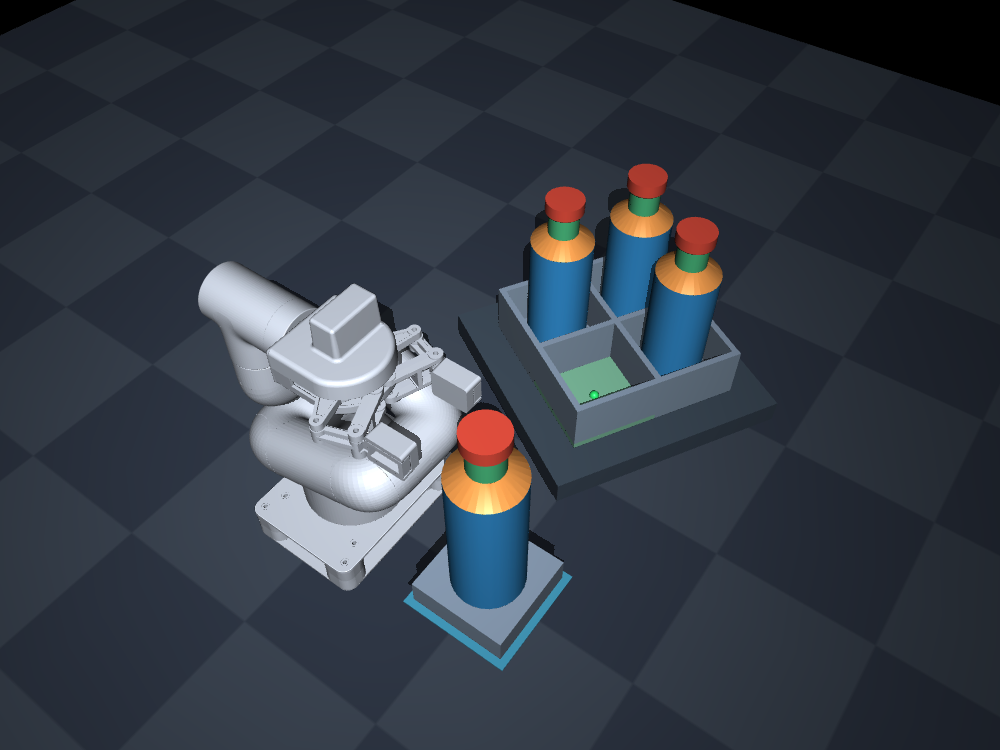
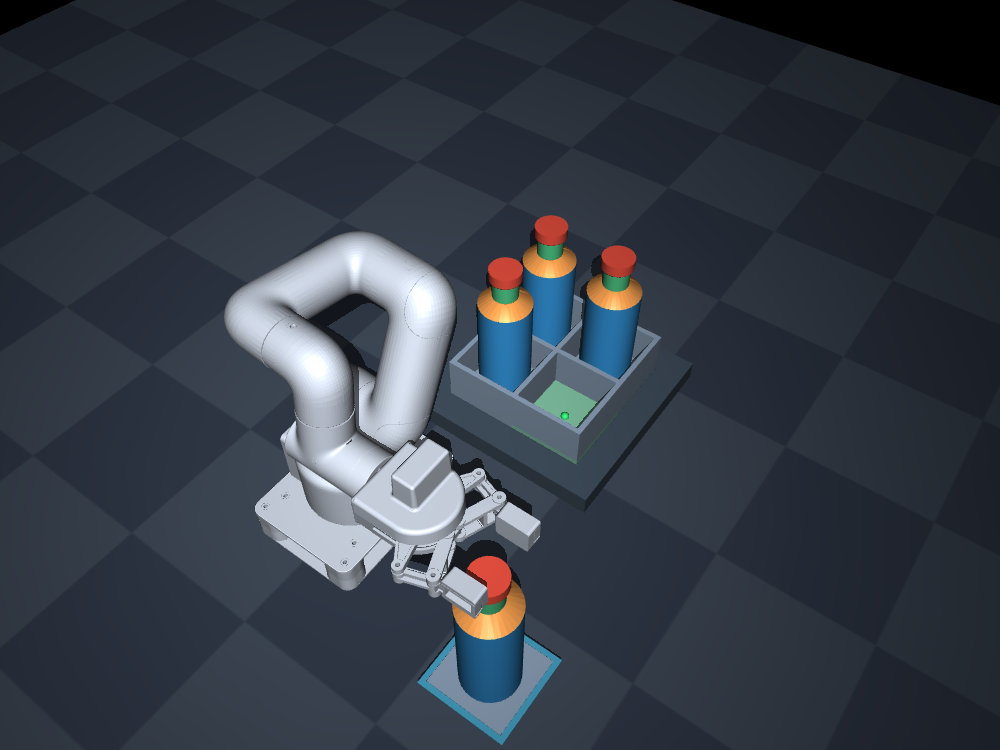
fix: ground and align v0 pickup and conveyor fixtures

Changed region(s): [[0.186, 0.2147, 0.744, 1.0], [0.589, 0.644, 0.62, 0.6747]]

diff --git a/scripts/check_v0_layout.py b/scripts/check_v0_layout.py
@@ -1,25 +1,18 @@
-"""Sample geometric clearance for the day-four v0 layout before authoring its MJCF."""
+"""Sample geometric clearance along the day-four v0 scene path."""
 
-from copy import deepcopy
-from math import cos, pi, sin
+from math import atan2, cos, pi, sin
 from pathlib import Path
-from tempfile import TemporaryDirectory
-from xml.etree import ElementTree as ET
 
 import mujoco
 import numpy as np
 
-from check_mycobot_model import prepare_urdf
-from check_neck_grasp import BOTTLE, CLOSED, OPEN, START, Trial, configure_model, vector
+from check_neck_grasp import BOTTLE, CLOSED, DRIVE, OPEN, START, Trial, vector
+from check_v0_scene import SCENE, SUPPORTS
 
 HAND_OFFSET = np.array([-0.00062, 0.054, -0.1385])  # hand origin to bottle bottom
 PICKUP_YAW = -pi / 2
-TURN = pi / 3
-BOX_YAW = TURN - pi
-CELL_OFFSET = 0.035
 LIFT_HEIGHT = 0.060
-BOX_DROP = 0.045
-RETRACT = 0.045
+APPROACH_HEIGHT = 0.045
 
 
 def yaw_matrix(angle: float) -> np.ndarray:
@@ -27,48 +20,26 @@ def yaw_matrix(angle: float) -> np.ndarray:
     return np.array([[c, -s, 0], [s, c, 0], [0, 0, 1]])
 
 
-def add_placement(xml: Path, box_position: np.ndarray) -> None:
-    tree = ET.parse(xml)
-    world = tree.find("worldbody")
-    if world is None:
-        raise RuntimeError("Configured robot scene has no worldbody")
-    source = world.find(f"body[@name='{BOTTLE}']")
-    if source is None:
-        raise RuntimeError("Configured robot scene has no target bottle")
-    box = ET.SubElement(
-        world, "body", name="packing_box", pos=vector(box_position),
-        quat=vector((cos(BOX_YAW / 2), 0, 0, sin(BOX_YAW / 2))),
-    )
-
-    def block(name, half_size, center) -> None:
-        ET.SubElement(
-            box, "geom", name=name, type="box", pos=vector(center),
-            size=vector(half_size), contype="4", conaffinity="3",
-        )
-
-    block("conveyor_belt", (0.100, 0.100, 0.010), (0, 0, -0.010))
-    block("target_cell_floor", (0.0725, 0.0725, 0.0025), (0, 0, 0.0025))
-    for i, coordinate in enumerate((-0.070, 0, 0.070)):
-        block(f"box_wall_x{i}", (0.0025, 0.0725, 0.020), (coordinate, 0, 0.025))
-        block(f"box_wall_y{i}", (0.0725, 0.0025, 0.020), (0, coordinate, 0.025))
-    for i, (x, y) in enumerate(
-        ((-CELL_OFFSET, -CELL_OFFSET), (-CELL_OFFSET, CELL_OFFSET), (CELL_OFFSET, -CELL_OFFSET)),
-        start=1,
-    ):
-        name = f"bottle_placed_{i}"
-        placed = ET.SubElement(box, "body", name=name, pos=vector((x, y, 0.005)))
-        for original in source.findall("geom"):
-            geom = deepcopy(original)
-            geom.set("name", f"{name}_{original.attrib['name']}")
-            geom.set("contype", "4")
-            geom.set("conaffinity", "3")
-            placed.append(geom)
-    tree.write(xml, encoding="utf-8")
-
-
-def check_layout(xml: Path, arm, coupled, pickup, placement) -> None:
+def check_layout(xml: Path) -> None:
     model = mujoco.MjModel.from_xml_path(str(xml))
     data = mujoco.MjData(model)
+    mujoco.mj_resetDataKeyframe(model, data, model.key("standby").id)
+    mujoco.mj_forward(model, data)
+    pickup = data.body(BOTTLE).xpos.copy()
+    placement = data.site("target_cell_center").xpos.copy()
+    cross = pickup[0] * placement[1] - pickup[1] * placement[0]
+    turn = atan2(cross, np.dot(pickup[:2], placement[:2]))
+
+    drive = model.joint(DRIVE).id
+    arm = [model.joint(joint).name for joint in model.actuator_trnid[:, 0] if joint != drive]
+    coupled = {DRIVE: (1.0, 0.0)}
+    for i in range(model.neq):
+        if model.eq_type[i] == mujoco.mjtEq.mjEQ_JOINT and model.eq_obj2id[i] == drive:
+            offset, multiplier = model.eq_data[i, :2]
+            coupled[model.joint(model.eq_obj1id[i]).name] = (multiplier, offset)
+    if len(arm) != len(START) or len(coupled) != 6:
+        raise RuntimeError("Unexpected arm or gripper drive configuration")
+    resting = {frozenset(pair) for pair in SUPPORTS.values()}
     hand = model.body("gripper_base").id
     bottle_id = model.body(BOTTLE).id
     bottle_qpos = model.joint("bottle_free").qposadr[0]
@@ -80,10 +51,10 @@ def check_layout(xml: Path, arm, coupled, pickup, placement) -> None:
     jr = np.zeros_like(jp)
     damping = 0.002 * np.eye(len(arm))
     q = np.array(START)
-    standby = pickup - np.array([RETRACT, 0, 0])
+    standby = pickup + np.array([0, 0, APPROACH_HEIGHT])
     raised = pickup + np.array([0, 0, LIFT_HEIGHT])
-    place_yaw = PICKUP_YAW + TURN
-    raised_place = yaw_matrix(TURN) @ raised
+    place_yaw = PICKUP_YAW + turn
+    raised_place = yaw_matrix(turn) @ raised
 
     def solve(bottom: np.ndarray, yaw: float) -> None:
         nonlocal q
@@ -121,6 +92,8 @@ def check_layout(xml: Path, arm, coupled, pickup, placement) -> None:
             if model.geom_bodyid[b] == bottle_id:
                 a, b = b, a
             part, other = model.geom(a).name, model.geom(b).name
+            if frozenset((part, other)) in resting:
+                continue
             if model.geom_bodyid[a] == bottle_id:
                 if part == "bottle_body" and other in {"support", "target_cell_floor"}:
                     continue
@@ -158,10 +131,10 @@ def check_layout(xml: Path, arm, coupled, pickup, placement) -> None:
     print("PASS close: 66 poses")
     linear("lift", pickup, raised, PICKUP_YAW, CLOSED, True, None)
 
-    for theta in np.linspace(0, TURN, 241):
+    for theta in np.linspace(0, turn, 321):
         point = yaw_matrix(theta) @ raised
         verify("transfer", point, PICKUP_YAW + theta, CLOSED, point)
-    print("PASS transfer: 241 poses")
+    print("PASS transfer: 321 poses")
     linear("placement descent", raised_place, placement, place_yaw, CLOSED, True, None)
     print_pose("Placement")
     for grip in np.linspace(CLOSED, OPEN, 66):
@@ -170,21 +143,5 @@ def check_layout(xml: Path, arm, coupled, pickup, placement) -> None:
     linear("placement retreat", placement, raised_place, place_yaw, OPEN, False, placement)
 
 
-def main() -> None:
-    with TemporaryDirectory(prefix="mycobot-v0-layout-") as directory:
-        urdf, source = prepare_urdf(Path(directory))
-        initial, arm, coupled = configure_model(urdf, source)
-        pose = mujoco.MjData(initial)
-        mujoco.mj_forward(initial, pose)
-        pickup = pose.body(BOTTLE).xpos.copy()
-        placement = yaw_matrix(TURN) @ pickup - (0, 0, BOX_DROP)
-        box = placement - yaw_matrix(BOX_YAW) @ (CELL_OFFSET, CELL_OFFSET, 0.005)
-        for name, position in (("Pickup bottom", pickup), ("Box bottom", box), ("Target floor", placement)):
-            print(f"{name} [m]: {vector(round(float(value), 8) for value in position)}")
-        xml = urdf.with_suffix(".xml")
-        add_placement(xml, box)
-        check_layout(xml, arm, coupled, pickup, placement)
-
-
 if __name__ == "__main__":
-    main()
+    check_layout(SCENE)

diff --git a/scripts/check_v0_scene.py b/scripts/check_v0_scene.py
@@ -27,10 +27,33 @@ def require(condition, message: str) -> None:
         raise RuntimeError(message)
 
 
+def check_floor_and_angle(model: mujoco.MjModel, data: mujoco.MjData) -> None:
+    floor_z = data.geom("ground").xpos[2]
+    base_rotation = data.body("g_base").xmat.reshape(3, 3)
+    for name in ("support", "conveyor_belt"):
+        platform = model.geom(name).id
+        platform_z = data.geom_xpos[platform, 2]
+        half_height = model.geom_size[platform, 2]
+        require(abs(platform_z - half_height - floor_z) < 1e-7, f"{name} does not sit on the floor")
+        relative = base_rotation.T @ data.geom_xmat[platform].reshape(3, 3)
+        # Both edge directions must be parallel to the robot base axes, up to a right-angle turn.
+        require(np.allclose(np.max(np.abs(relative[:2, :2]), axis=0), 1, atol=1e-7, rtol=0)
+                and abs(relative[2, 2] - 1) < 1e-7, f"{name} is not aligned to the robot base")
+
+    base = data.body("g_base").xpos[:2]
+    pickup = data.geom("pickup_zone").xpos[:2] - base
+    belt = data.geom("conveyor_belt").xpos[:2] - base
+    dot = np.dot(pickup, belt) / (np.linalg.norm(pickup) * np.linalg.norm(belt))
+    angle = float(np.degrees(np.arccos(np.clip(dot, -1, 1))))
+    require(abs(angle - 90) < 0.001, f"Pickup and conveyor must be 90° apart; found {angle:.4f}°")
+    print(f"PASS: both platforms sit directly on the floor; base-aligned edges, center angle {angle:.3f}°")
+
+
 def check_scene(model: mujoco.MjModel) -> mujoco.MjData:
     data = mujoco.MjData(model)
     mujoco.mj_resetDataKeyframe(model, data, model.key("standby").id)
     mujoco.mj_forward(model, data)
+    check_floor_and_angle(model, data)
 
     bottles = {
         model.body(i).name for i in range(model.nbody) if model.body(i).name.startswith("bottle_")
@@ -95,12 +118,13 @@ def check_scene(model: mujoco.MjModel) -> mujoco.MjData:
     return data
 
 
-def screenshot(model: mujoco.MjModel, data: mujoco.MjData, path: Path) -> None:
+def screenshot(model: mujoco.MjModel, data: mujoco.MjData, path: Path, *, top_down: bool) -> None:
     camera = mujoco.MjvCamera()
     camera.lookat[:] = [0.102, 0.075, 0.144]
     camera.distance = 0.69
-    camera.azimuth = 126
-    camera.elevation = -49
+    camera.azimuth = 90 if top_down else 126
+    camera.elevation = -90 if top_down else -49
+    camera.orthographic = top_down
     width, height = 1000, 750
     with mujoco.Renderer(model, width=width, height=height) as renderer:
         renderer.update_scene(data, camera=camera)
@@ -120,6 +144,7 @@ def screenshot(model: mujoco.MjModel, data: mujoco.MjData, path: Path) -> None:
 def main() -> None:
     parser = ArgumentParser(description=__doc__)
     parser.add_argument("--screenshot", type=Path, help="write a PNG of the settled scene")
+    parser.add_argument("--top-down", action="store_true", help="render the screenshot from directly above")
     parser.add_argument("--viewer", action="store_true", help="open the verified scene in the MuJoCo viewer")
     args = parser.parse_args()
     if not (SCENE.parent / "_mycobot" / "robot.xml").is_file():
@@ -127,7 +152,7 @@ def main() -> None:
     model = mujoco.MjModel.from_xml_path(str(SCENE))
     data = check_scene(model)
     if args.screenshot:
-        screenshot(model, data, args.screenshot)
+        screenshot(model, data, args.screenshot, top_down=args.top_down)
     if args.viewer:
         from mujoco import viewer
 

diff --git a/scripts/check_mycobot_model.py b/scripts/check_mycobot_model.py
@@ -8,7 +8,6 @@ from urllib.request import urlretrieve
 from xml.etree import ElementTree as ET
 
 import mujoco
-import trimesh
 
 REVISION = "25bec49559ba119395f4d335d3da230bdad494d8"
 SOURCE = f"https://raw.githubusercontent.com/elephantrobotics/mycobot_ros2/{REVISION}"
@@ -18,6 +17,8 @@ DRIVE = "gripper_controller"
 
 
 def prepare_urdf(directory: Path) -> tuple[Path, ET.Element]:
+    import trimesh
+
     path = directory / "mycobot.urdf"
     urlretrieve(f"{SOURCE}/{URDF}", path)
     tree = ET.parse(path)

diff --git a/docs/scene.md b/docs/scene.md
@@ -52,32 +52,31 @@ uv run --locked --with trimesh==5.2.2 --with pycollada==0.9.3 \
 
 ## v0 기준 배치
 
-아래 좌표는 로봇 베이스가 원점인 MuJoCo 월드 좌표 `(x, y, z)`이며 단위는 m다. 벨트 좌표의 원점은 적재 구간 **윗면 중앙**이다. 벨트 진행 방향을 로컬 `+x`, 폭 방향을 `+y`로 두며, 벨트와 박스 모두 월드 `+z`축을 기준으로 −120° 회전한다.
+아래 좌표는 로봇 베이스가 원점인 MuJoCo 월드 좌표 `(x, y, z)`이며 단위는 m다. 위에서 봤을 때 로봇 베이스에서 투입구 중앙과 컨베이어 중앙을 향하는 방향은 **90°**를 이룬다. 벨트 좌표의 원점은 적재 구간 **윗면 중앙**이다. 벨트 진행 방향을 로컬 `+x`, 폭 방향을 `+y`로 두며, 투입대와 컨베이어·박스의 모서리는 위에서 봤을 때 로봇 베이스의 모서리와 평행하다. 투입대는 월드 회전 0°, 컨베이어와 박스는 월드 `+z`축 기준 −90°다. 투입대와 컨베이어 자체의 밑면을 바닥(`z = -0.032`)에 직접 놓으며 별도 다리를 사용하지 않는다. 대상 병은 투입대 윗면에, 박스는 벨트 윗면에, 기존 병은 각 칸의 바닥에 놓는다.
 
 | 기준점 | 월드 좌표 (m) |
 | --- | --- |
-| 투입 구역 중앙 = 대상 병 바닥 중심 | `(0.19399984, -0.06437967, 0.14149951)` |
-| 벨트 윗면 중앙 = 박스 외부 바닥 중심 | `(0.13994346, 0.18362985, 0.09149951)` |
-| 마지막 빈 칸 바닥 중심 | `(0.15275435, 0.13581896, 0.09649951)` |
+| 투입 구역 중앙 = 대상 병 바닥 중심 | `(0.19399984, -0.06437967, -0.012)` |
+| 벨트 윗면 중앙 = 박스 외부 바닥 중심 | `(0.06984411, 0.21046622, -0.012)` |
+| 마지막 빈 칸 바닥 중심 | `(0.10484411, 0.17546622, -0.007)` |
 
 빈 칸 바닥 중심은 박스 로컬 좌표 `(+0.035, +0.035, +0.005)`다. 기존 병 세 개는 나머지 칸 중앙에 직립시킨다.
 
-관절 각도는 아래 순서대로 rad 단위이며, 표는 임시 배치에서 확인한 기준점이다.
+관절 각도는 아래 순서대로 rad 단위이며, 표는 낮춘 장면에서 다시 계산한 기준점이다.
 
 | 자세 | `joint2_to_joint1` | `joint3_to_joint2` | `joint4_to_joint3` | `joint5_to_joint4` | `joint6_to_joint5` | `joint6output_to_joint6` |
 | --- | ---: | ---: | ---: | ---: | ---: | ---: |
-| 대기 (그리퍼 열림, `gripper_controller=0.15`) | -0.02348797 | -1.22985912 | 2.38230284 | -1.16064546 | 0.02348721 | -0.00019666 |
-| 투입 병목 파지 위치 | -0.00625071 | -1.62534236 | 2.17351415 | -0.55637137 | 0.00625046 | -0.00005529 |
-| 빈 칸 바닥까지 내린 위치 | 1.04094410 | -2.13736361 | 2.48762900 | -0.35846497 | 0.00625320 | -0.00005531 |
+| 대기 (그리퍼 열림, `gripper_controller=0.15`) | 1.50378043 | -0.40376298 | 1.85230090 | 1.57115064 | -1.63831924 | -3.01996357 |
+| 투입 병목 파지 위치 | 1.50377918 | -0.34368283 | 2.29565762 | 1.06771958 | -1.63832048 | -3.01996943 |
+| 빈 칸 바닥까지 내린 위치 | 2.85640203 | -0.36399169 | 2.25191576 | 1.13177073 | -1.63832071 | -3.01996985 |
 
 ### 접근 경로 검사
 
 ```bash
-uv run --locked --with trimesh==5.2.2 --with pycollada==0.9.3 \
-  python scripts/check_v0_layout.py
+uv run --locked python scripts/check_v0_layout.py
 ```
 
-대기 자세에서 수평으로 45 mm 접근한 뒤 닫기 → 60 mm 상승 → 로봇 베이스 주위로 60° 회전 → 빈 칸 바닥까지 수직 하강 → 열기 → 수직 후퇴 순으로 확인했다. 임시 MuJoCo 모델에서 **693개 자세**를 검사했고, 박스 벽·컨베이어·기존 병 및 대상 병 몸통과의 금지 접촉이 없었다. 손가락의 병목·뚜껑·어깨 접촉과 의도한 바닥 지지는 허용했다.
+대기 자세에서 45 mm 수직 하강한 뒤 닫기 → 60 mm 상승 → 로봇 베이스 주위로 약 77.50° 회전 → 빈 칸 바닥까지 수직 하강 → 열기 → 수직 후퇴 순으로 확인했다. 회전 구간은 컨베이어 중앙이 아니라 빈 칸을 목표로 하므로 설비 배치 각도 90°와 다르다. 실제 장면 v0에서 **674개 자세**를 검사했고, 바닥·투입대·박스 벽·컨베이어·기존 병 및 대상 병 몸통과의 금지 접촉이 없었다. 손가락의 병목·뚜껑·어깨 접촉과 의도한 바닥 지지는 허용했다.
 
 이 검사는 이송 구간의 병을 경로상에 직립시킨 **기하 검사**다. 자세 사이의 연속 충돌, 로봇 자체 충돌, 실제 제어에 따른 미끄러짐·낙하·안착은 검증하지 않았다. 이 배치를 [장면 v0 MJCF](../scenes/v0.xml)에 반영했다.
 
@@ -91,16 +90,19 @@ uv run --locked --with trimesh==5.2.2 --with pycollada==0.9.3 \
 uv run --locked python scripts/check_v0_scene.py
 ```
 
-마지막 명령에 `--viewer`를 붙이면 대기 자세에서 MuJoCo 뷰어가 열린다. `--screenshot docs/scene-v0.png`를 붙이면 1초 대기 후의 화면을 저장한다.
+마지막 명령에 `--viewer`를 붙이면 대기 자세에서 MuJoCo 뷰어가 열린다. `--screenshot docs/scene-v0.png`를 붙이면 1초 대기 후의 화면을 저장한다. `--top-down`을 추가하면 수직 상공에서 촬영한다.
 
 ```text
+PASS: both platforms sit directly on the floor; base-aligned edges, center angle 90.000°
 PASS: 4 bottles, total 0.600 kg
 PASS: 3 occupied cells, 1 empty target cell (+x, +y)
-PASS: standby held for 1.000 s; max bottle drift 0.574 mm
+PASS: standby held for 1.000 s; max bottle drift 0.572 mm
 PASS: only bottle-base support contacts; all 4 bottles supported after settling
 ```
 
 ![장면 v0: 투입 병 1개와 마지막 칸이 비어 있는 2×2 박스](scene-v0.png)
+
+[위에서 본 장면: 로봇 베이스와 투입대·벨트 모서리 정렬](scene-v0-top.png)
 
 초기 대기 상태의 겹침과 안정성만 검증했다. 전체 집기·이송·배치 사이클과 최종 10회 시험 결과는 포함하지 않는다.
 
